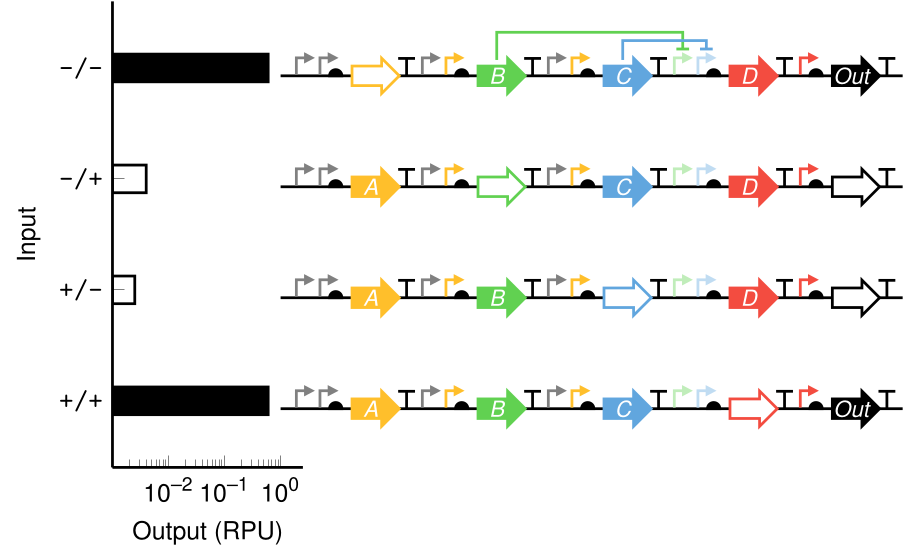
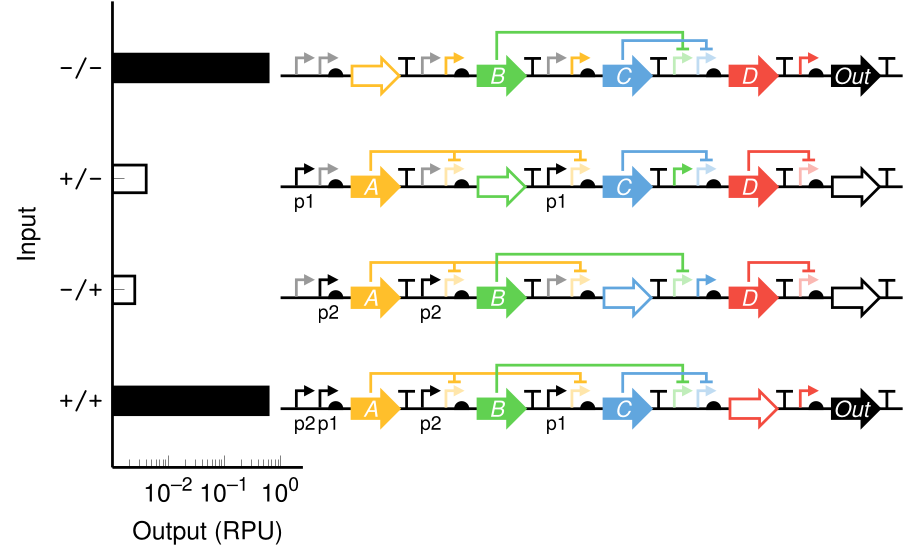
Complete repression arcs in example

diff --git a/example.tex b/example.tex
@@ -73,34 +73,35 @@
     black,
     fill=black,
   },
-  my label/.style={label={[white]center:\footnotesize\it {#1}}},
+  g label/.style={label={[white]center:\footnotesize\it {#1}}},
+  p label/.style={label={[anchor=base, yshift=-8pt]below:\scriptsize {#1}}},
   circuit A/.style={
     postaction={decorate},
     decoration={
       markings,
-      mark=at position 2mm with  {\node [promoter, gray] (A-p11) {};},
-      mark=at position 5mm with  {\node [promoter, gray] (A-p12) {};},
+      mark=at position 2mm with  {\node [promoter, black!40] (A-p11) {};},
+      mark=at position 5mm with  {\node [promoter, black!40] (A-p12) {};},
       mark=at position 7mm with  {\node [ribosome binding site] (A-r1) {};},
       mark=at position 9mm with  {\node [coding sequence, gA, fill=white] (A-gA) {};},
       mark=at position 16mm with {\node [terminator] (A-t1) {};},
-      mark=at position 18mm with {\node [promoter, gray] (A-p21) {};},
+      mark=at position 18mm with {\node [promoter, black!40] (A-p21) {};},
       mark=at position 21mm with {\node [promoter, color A] (A-p22) {};},
       mark=at position 23mm with {\node [ribosome binding site] (A-r2) {};},
-      mark=at position 25mm with {\node [coding sequence, gB, my label={B}] (A-gB) {};},
+      mark=at position 25mm with {\node [coding sequence, gB, g label={B}] (A-gB) {};},
       mark=at position 32mm with {\node [terminator] (A-t2) {};},
-      mark=at position 34mm with {\node [promoter, gray] (A-p31) {};},
+      mark=at position 34mm with {\node [promoter, black!40] (A-p31) {};},
       mark=at position 37mm with {\node [promoter, color A] (A-p32) {};},
       mark=at position 39mm with {\node [ribosome binding site] (A-r3) {};},
-      mark=at position 41mm with {\node [coding sequence, gC, my label={C}] (A-gC) {};},
+      mark=at position 41mm with {\node [coding sequence, gC, g label={C}] (A-gC) {};},
       mark=at position 48mm with {\node [terminator] (A-t3) {};},
       mark=at position 50mm with {\node [promoter, color B!40] (A-p41) {};},
       mark=at position 53mm with {\node [promoter, color C!40] (A-p42) {};},
       mark=at position 55mm with {\node [ribosome binding site] (A-r4) {};},
-      mark=at position 57mm with {\node [coding sequence, gD, my label={D}] (A-gD) {};},
+      mark=at position 57mm with {\node [coding sequence, gD, g label={D}] (A-gD) {};},
       mark=at position 64mm with {\node [terminator] (A-t4) {};},
       mark=at position 66mm with {\node [promoter, color D] (A-p5) {};},
       mark=at position 68mm with {\node [ribosome binding site] (A-r5) {};},
-      mark=at position 70mm with {\node [coding sequence, gO, my label={Out}] (A-gO) {};},
+      mark=at position 70mm with {\node [coding sequence, gO, g label={Out}] (A-gO) {};},
       mark=at position 77mm with {\node [terminator] (A-t5) {};},
     }
   },
@@ -108,90 +109,90 @@
     postaction={decorate},
     decoration={
       markings,
-      mark=at position 2mm with  {\node [promoter, gray] (p11) {};},
-      mark=at position 5mm with  {\node [promoter, gray] (p12) {};},
-      mark=at position 7mm with  {\node [ribosome binding site] (r1) {};},
-      mark=at position 9mm with  {\node [coding sequence, gA, my label={A}] (gA) {};},
-      mark=at position 16mm with {\node [terminator] (t1) {};},
-      mark=at position 18mm with {\node [promoter, gray] (p21) {};},
-      mark=at position 21mm with {\node [promoter, color A] (p22) {};},
-      mark=at position 23mm with {\node [ribosome binding site] (r2) {};},
-      mark=at position 25mm with {\node [coding sequence, gB, fill=white] (gB) {};},
-      mark=at position 32mm with {\node [terminator] (t2) {};},
-      mark=at position 34mm with {\node [promoter, gray] (p31) {};},
-      mark=at position 37mm with {\node [promoter, color A] (p32) {};},
-      mark=at position 39mm with {\node [ribosome binding site] (r3) {};},
-      mark=at position 41mm with {\node [coding sequence, gC, my label={C}] (gC) {};},
-      mark=at position 48mm with {\node [terminator] (t3) {};},
-      mark=at position 50mm with {\node [promoter, color B!40] (p41) {};},
-      mark=at position 53mm with {\node [promoter, color C!40] (p42) {};},
-      mark=at position 55mm with {\node [ribosome binding site] (r4) {};},
-      mark=at position 57mm with {\node [coding sequence, gD, my label={D}] (gD) {};},
-      mark=at position 64mm with {\node [terminator] (t4) {};},
-      mark=at position 66mm with {\node [promoter, color D] (p5) {};},
-      mark=at position 68mm with {\node [ribosome binding site] (r5) {};},
-      mark=at position 70mm with {\node [coding sequence, gO, fill=white] (gO) {};},
-      mark=at position 77mm with {\node [terminator] (t5) {};},
+      mark=at position 2mm with  {\node [promoter, black, p label={p1}] (B-p11) {};},
+      mark=at position 5mm with  {\node [promoter, black!40] (B-p12) {};},
+      mark=at position 7mm with  {\node [ribosome binding site] (B-r1) {};},
+      mark=at position 9mm with  {\node [coding sequence, gA, g label={A}] (B-gA) {};},
+      mark=at position 16mm with {\node [terminator] (B-t1) {};},
+      mark=at position 18mm with {\node [promoter, black!40] (B-p21) {};},
+      mark=at position 21mm with {\node [promoter, color A!40] (B-p22) {};},
+      mark=at position 23mm with {\node [ribosome binding site] (B-r2) {};},
+      mark=at position 25mm with {\node [coding sequence, gB, fill=white] (B-gB) {};},
+      mark=at position 32mm with {\node [terminator] (B-t2) {};},
+      mark=at position 34mm with {\node [promoter, black, p label={p1}] (B-p31) {};},
+      mark=at position 37mm with {\node [promoter, color A!40] (B-p32) {};},
+      mark=at position 39mm with {\node [ribosome binding site] (B-r3) {};},
+      mark=at position 41mm with {\node [coding sequence, gC, g label={C}] (B-gC) {};},
+      mark=at position 48mm with {\node [terminator] (B-t3) {};},
+      mark=at position 50mm with {\node [promoter, color B] (B-p41) {};},
+      mark=at position 53mm with {\node [promoter, color C!40] (B-p42) {};},
+      mark=at position 55mm with {\node [ribosome binding site] (B-r4) {};},
+      mark=at position 57mm with {\node [coding sequence, gD, g label={D}] (B-gD) {};},
+      mark=at position 64mm with {\node [terminator] (B-t4) {};},
+      mark=at position 66mm with {\node [promoter, color D!40] (B-p5) {};},
+      mark=at position 68mm with {\node [ribosome binding site] (B-r5) {};},
+      mark=at position 70mm with {\node [coding sequence, gO, fill=white] (B-gO) {};},
+      mark=at position 77mm with {\node [terminator] (B-t5) {};},
     }
   },
   circuit C/.style={
     postaction={decorate},
     decoration={
       markings,
-      mark=at position 2mm with  {\node [promoter, gray] (p11) {};},
-      mark=at position 5mm with  {\node [promoter, gray] (p12) {};},
-      mark=at position 7mm with  {\node [ribosome binding site] (r1) {};},
-      mark=at position 9mm with  {\node [coding sequence, gA, my label={A}] (gA) {};},
-      mark=at position 16mm with {\node [terminator] (t1) {};},
-      mark=at position 18mm with {\node [promoter, gray] (p21) {};},
-      mark=at position 21mm with {\node [promoter, color A] (p22) {};},
-      mark=at position 23mm with {\node [ribosome binding site] (r2) {};},
-      mark=at position 25mm with {\node [coding sequence, gB, my label={B}] (gB) {};},
-      mark=at position 32mm with {\node [terminator] (t2) {};},
-      mark=at position 34mm with {\node [promoter, gray] (p31) {};},
-      mark=at position 37mm with {\node [promoter, color A] (p32) {};},
-      mark=at position 39mm with {\node [ribosome binding site] (r3) {};},
-      mark=at position 41mm with {\node [coding sequence, gC, fill=white] (gC) {};},
-      mark=at position 48mm with {\node [terminator] (t3) {};},
-      mark=at position 50mm with {\node [promoter, color B!40] (p41) {};},
-      mark=at position 53mm with {\node [promoter, color C!40] (p42) {};},
-      mark=at position 55mm with {\node [ribosome binding site] (r4) {};},
-      mark=at position 57mm with {\node [coding sequence, gD, my label={D}] (gD) {};},
-      mark=at position 64mm with {\node [terminator] (t4) {};},
-      mark=at position 66mm with {\node [promoter, color D] (p5) {};},
-      mark=at position 68mm with {\node [ribosome binding site] (r5) {};},
-      mark=at position 70mm with {\node [coding sequence, gO, fill=white] (gO) {};},
-      mark=at position 77mm with {\node [terminator] (t5) {};},
+      mark=at position 2mm with  {\node [promoter, black!40] (C-p11) {};},
+      mark=at position 5mm with  {\node [promoter, black, p label={p2}] (C-p12) {};},
+      mark=at position 7mm with  {\node [ribosome binding site] (C-r1) {};},
+      mark=at position 9mm with  {\node [coding sequence, gA, g label={A}] (C-gA) {};},
+      mark=at position 16mm with {\node [terminator] (C-t1) {};},
+      mark=at position 18mm with {\node [promoter, black, p label={p2}] (C-p21) {};},
+      mark=at position 21mm with {\node [promoter, color A!40] (C-p22) {};},
+      mark=at position 23mm with {\node [ribosome binding site] (C-r2) {};},
+      mark=at position 25mm with {\node [coding sequence, gB, g label={B}] (C-gB) {};},
+      mark=at position 32mm with {\node [terminator] (C-t2) {};},
+      mark=at position 34mm with {\node [promoter, black!40] (C-p31) {};},
+      mark=at position 37mm with {\node [promoter, color A!40] (C-p32) {};},
+      mark=at position 39mm with {\node [ribosome binding site] (C-r3) {};},
+      mark=at position 41mm with {\node [coding sequence, gC, fill=white] (C-gC) {};},
+      mark=at position 48mm with {\node [terminator] (C-t3) {};},
+      mark=at position 50mm with {\node [promoter, color B!40] (C-p41) {};},
+      mark=at position 53mm with {\node [promoter, color C] (C-p42) {};},
+      mark=at position 55mm with {\node [ribosome binding site] (C-r4) {};},
+      mark=at position 57mm with {\node [coding sequence, gD, g label={D}] (C-gD) {};},
+      mark=at position 64mm with {\node [terminator] (C-t4) {};},
+      mark=at position 66mm with {\node [promoter, color D!40] (C-p5) {};},
+      mark=at position 68mm with {\node [ribosome binding site] (C-r5) {};},
+      mark=at position 70mm with {\node [coding sequence, gO, fill=white] (C-gO) {};},
+      mark=at position 77mm with {\node [terminator] (C-t5) {};},
     }
   },
   circuit D/.style={
     postaction={decorate},
     decoration={
       markings,
-      mark=at position 2mm with  {\node [promoter, gray] (p11) {};},
-      mark=at position 5mm with  {\node [promoter, gray] (p12) {};},
-      mark=at position 7mm with  {\node [ribosome binding site] (r1) {};},
-      mark=at position 9mm with  {\node [coding sequence, gA, my label={A}] (gA) {};},
-      mark=at position 16mm with {\node [terminator] (t1) {};},
-      mark=at position 18mm with {\node [promoter, gray] (p21) {};},
-      mark=at position 21mm with {\node [promoter, color A] (p22) {};},
-      mark=at position 23mm with {\node [ribosome binding site] (r2) {};},
-      mark=at position 25mm with {\node [coding sequence, gB, my label={B}] (gB) {};},
-      mark=at position 32mm with {\node [terminator] (t2) {};},
-      mark=at position 34mm with {\node [promoter, gray] (p31) {};},
-      mark=at position 37mm with {\node [promoter, color A] (p32) {};},
-      mark=at position 39mm with {\node [ribosome binding site] (r3) {};},
-      mark=at position 41mm with {\node [coding sequence, gC, my label={C}] (gC) {};},
-      mark=at position 48mm with {\node [terminator] (t3) {};},
-      mark=at position 50mm with {\node [promoter, color B!40] (p41) {};},
-      mark=at position 53mm with {\node [promoter, color C!40] (p42) {};},
-      mark=at position 55mm with {\node [ribosome binding site] (r4) {};},
-      mark=at position 57mm with {\node [coding sequence, gD, fill=white] (gD) {};},
-      mark=at position 64mm with {\node [terminator] (t4) {};},
-      mark=at position 66mm with {\node [promoter, color D] (p5) {};},
-      mark=at position 68mm with {\node [ribosome binding site] (r5) {};},
-      mark=at position 70mm with {\node [coding sequence, gO, my label={Out}] (gO) {};},
-      mark=at position 77mm with {\node [terminator] (t5) {};},
+      mark=at position 2mm with  {\node [promoter, black, p label={p2}] (D-p11) {};},
+      mark=at position 5mm with  {\node [promoter, black, p label={p1}] (D-p12) {};},
+      mark=at position 7mm with  {\node [ribosome binding site] (D-r1) {};},
+      mark=at position 9mm with  {\node [coding sequence, gA, g label={A}] (D-gA) {};},
+      mark=at position 16mm with {\node [terminator] (D-t1) {};},
+      mark=at position 18mm with {\node [promoter, black, p label={p2}] (D-p21) {};},
+      mark=at position 21mm with {\node [promoter, color A!40] (D-p22) {};},
+      mark=at position 23mm with {\node [ribosome binding site] (D-r2) {};},
+      mark=at position 25mm with {\node [coding sequence, gB, g label={B}] (D-gB) {};},
+      mark=at position 32mm with {\node [terminator] (D-t2) {};},
+      mark=at position 34mm with {\node [promoter, black, p label={p1}] (D-p31) {};},
+      mark=at position 37mm with {\node [promoter, color A!40] (D-p32) {};},
+      mark=at position 39mm with {\node [ribosome binding site] (D-r3) {};},
+      mark=at position 41mm with {\node [coding sequence, gC, g label={C}] (D-gC) {};},
+      mark=at position 48mm with {\node [terminator] (D-t3) {};},
+      mark=at position 50mm with {\node [promoter, color B!40] (D-p41) {};},
+      mark=at position 53mm with {\node [promoter, color C!40] (D-p42) {};},
+      mark=at position 55mm with {\node [ribosome binding site] (D-r4) {};},
+      mark=at position 57mm with {\node [coding sequence, gD, fill=white] (D-gD) {};},
+      mark=at position 64mm with {\node [terminator] (D-t4) {};},
+      mark=at position 66mm with {\node [promoter, color D] (D-p5) {};},
+      mark=at position 68mm with {\node [ribosome binding site] (D-r5) {};},
+      mark=at position 70mm with {\node [coding sequence, gO, g label={Out}] (D-gO) {};},
+      mark=at position 77mm with {\node [terminator] (D-t5) {};},
     }
   },
   ]
@@ -207,7 +208,7 @@
     xtick={0.001,0.01,0.1,1},
     xticklabels={\empty, $10^{-2}$, $10^{-1}$, $10^{0}$},
     ytick={4,...,1},
-    yticklabels={-/-,-/+,+/-,+/+},
+    yticklabels={-/-,+/-,-/+,+/+},
     yticklabel style={font=\tt},
     enlarge y limits=0.2,
     xlabel={Output (RPU)},
@@ -226,8 +227,25 @@
   \draw [circuit B] ([yshift=-1mm]B) -- ++(79mm,0);
   \draw [circuit C] ([yshift=-1mm]C) -- ++(79mm,0);
   \draw [circuit D] ([yshift=-1mm]D) -- ++(79mm,0);
+  % A
   \draw [repression, color B] (A-gB.north) -- ++(0,12pt) -| (A-p41.crown);
   \draw [repression, color C] (A-gC.north) -- ++(0,9pt) -| (A-p42.crown);
+  % B
+  \draw [repression, color A] (B-gA.north) -- ++(0,9pt) coordinate (B-gA r1) -| (B-p32.crown);
+  \draw [repression, color A, shorten <=0pt] (B-gA r1 -| B-p22.crown) -- (B-p22.crown);
+  \draw [repression, color C] (B-gC.north) -- ++(0,9pt) -| (B-p42.crown);
+  \draw [repression, color D] (B-gD.north) -- ++(0,9pt) -| (B-p5.crown);
+  % C
+  \draw [repression, color A] (C-gA.north) -- ++(0,9pt) coordinate (C-gA r1) -| (C-p32.crown);
+  \draw [repression, color A, shorten <=0pt] (C-gA r1 -| C-p22.crown) -- (C-p22.crown);
+  \draw [repression, color B] (C-gB.north) -- ++(0,12pt) -| (C-p41.crown);
+  \draw [repression, color D] (C-gD.north) -- ++(0,9pt) -| (C-p5.crown);
+  % D
+  \draw [repression, color A] (D-gA.north) -- ++(0,9pt) coordinate (D-gA r1) -| (D-p32.crown);
+  \draw [repression, color A, shorten <=0pt] (D-gA r1 -| D-p22.crown) -- (D-p22.crown);
+  \draw [repression, color B] (D-gB.north) -- ++(0,12pt) -| (D-p41.crown);
+  \draw [repression, color C] (D-gC.north) -- ++(0,9pt) -| (D-p42.crown);
+
 \end{tikzpicture}
 
 \end{document}
